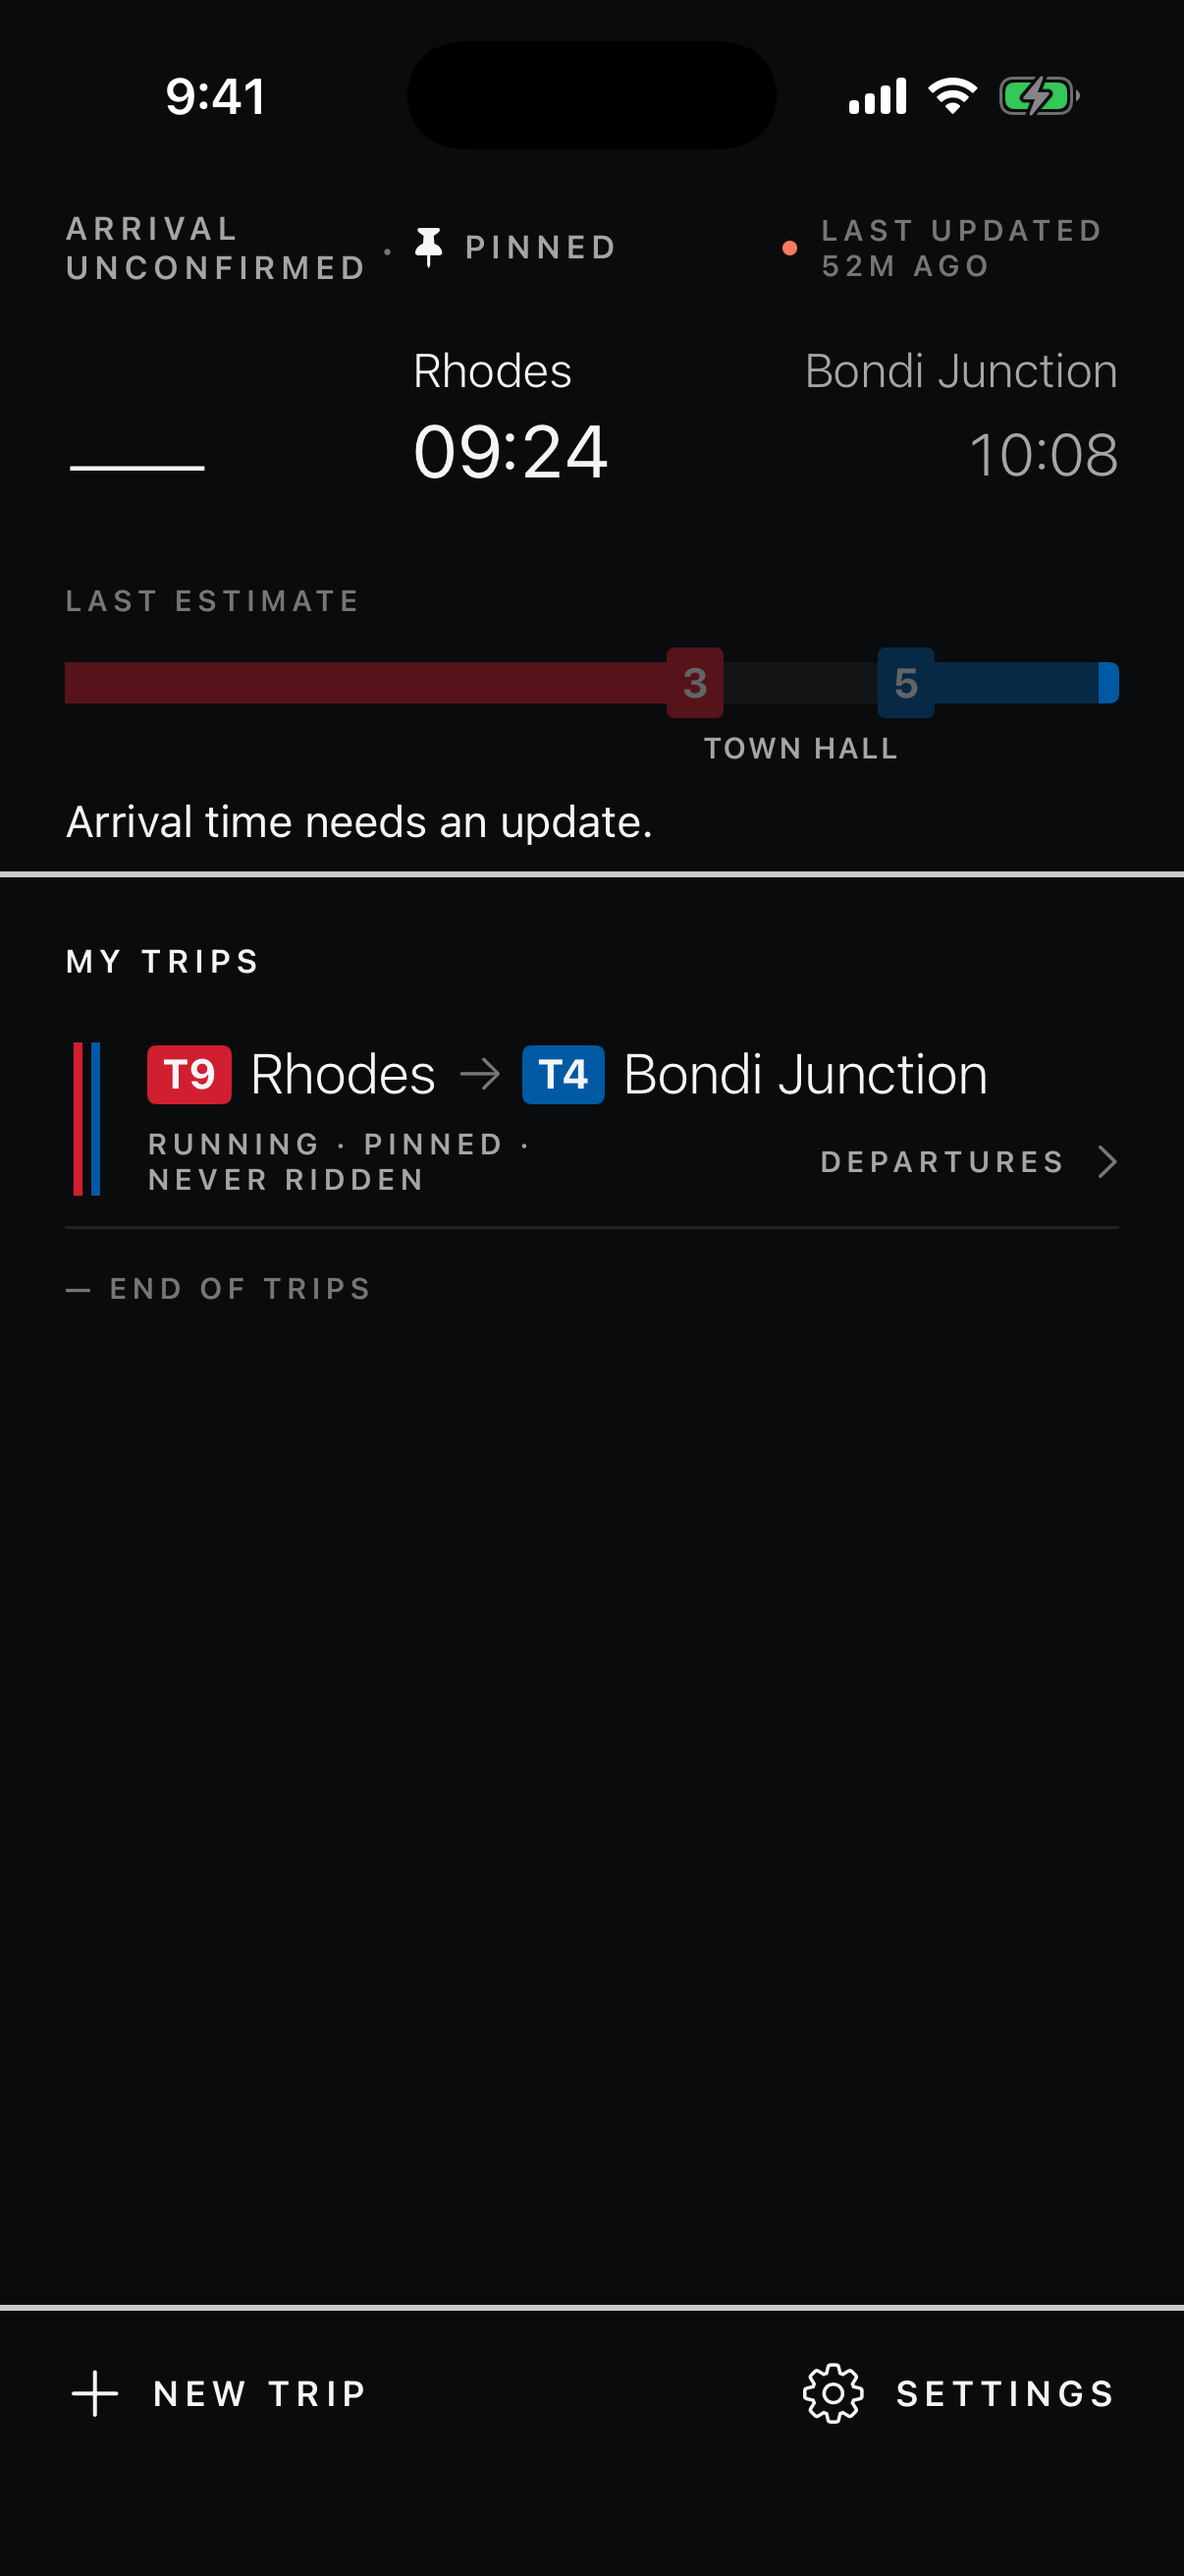
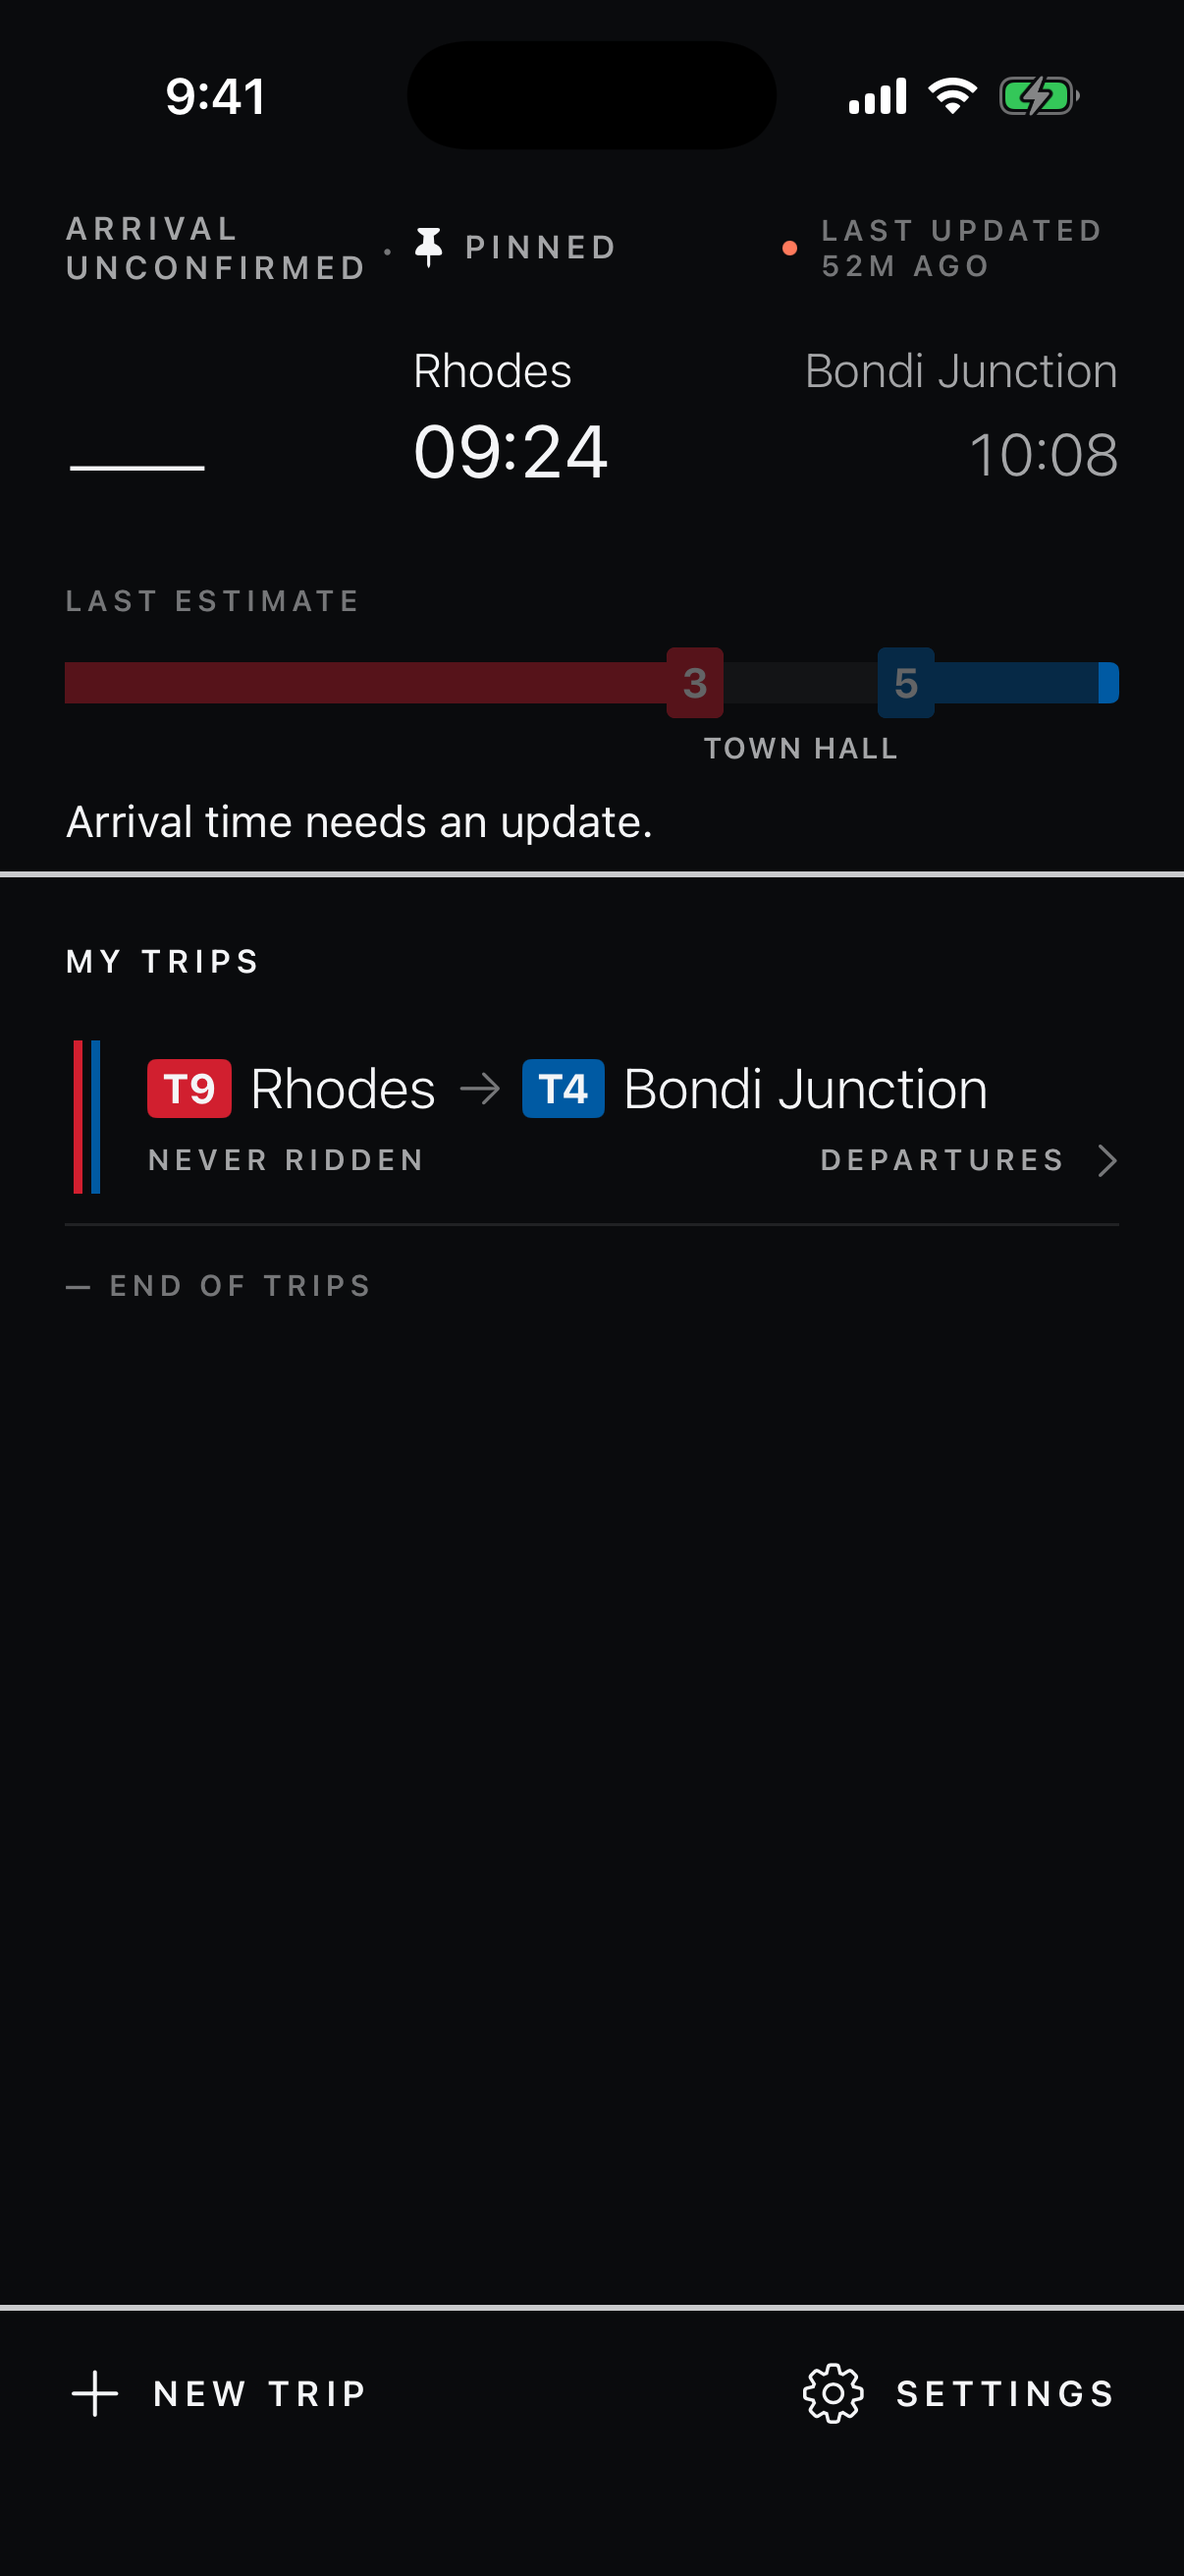
Re-shoot native home and C1 exemplars without the repeated row text

diff --git a/docs/user_stories/10-first-run.md b/docs/user_stories/10-first-run.md
@@ -22,7 +22,7 @@ for anything personal.
 
 - Under a minute, no account, no permission prompt.
 - The home screen makes sense with zero history: the header is the next
-  train, the row says `SHOWN ABOVE`, and nothing claims to know Dev.
+  train, the row says `NEVER RIDDEN`, and nothing claims to know Dev.
 
 ## Pressure points
 
@@ -36,6 +36,6 @@ for anything personal.
   first contact look like then?
 - The header's figure slot reads `TIMETABLE ONLY` while the first board is
   still loading. Dev has not seen a timetable; the word describes nothing.
-- The trip row's sub line says `SHOWN ABOVE` and nothing else, and every
-  other row later says `NEVER RIDDEN`. Does the first row feel like a
+- The trip row's sub line says `NEVER RIDDEN` and nothing else, as every
+  row does until a ride is recorded. Does the first row feel like a
   configured thing, or like a placeholder?
